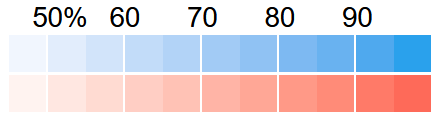
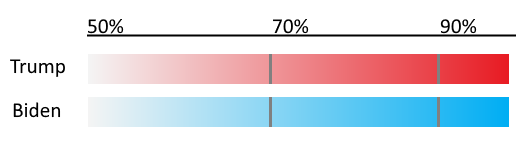
Change Map Key

diff --git a/modelmap.py b/modelmap.py
@@ -75,7 +75,7 @@ fig = go.Figure(data=go.Choropleth(
     autocolorscale=False,
     text=forecast_state_latest_state_ev['text'], # hover text
     marker_line_color='grey',
-    showscale=False,
+    # showscale=False,
 ))
 
 fig.update_layout(
@@ -85,6 +85,6 @@ fig.update_layout(
         showlakes=False,
     ),
 )
-
+fig.show()
 fig.write_html("choropleth_map.html")
 fig.write_image("choropleth_map.png")

diff --git a/index.md b/index.md
@@ -5,8 +5,8 @@
 
 ![Choropleth Map](/choropleth_map.png)
 
-##### Key
- <img src="key_map.png" width="100" height="100">
+#### Key
+![Map Key](/map_key.png)
 
 
-# [Click here for an interactive version of the map](choropleth_map.html)
+### [Click here for an interactive version of the map](choropleth_map.html)
